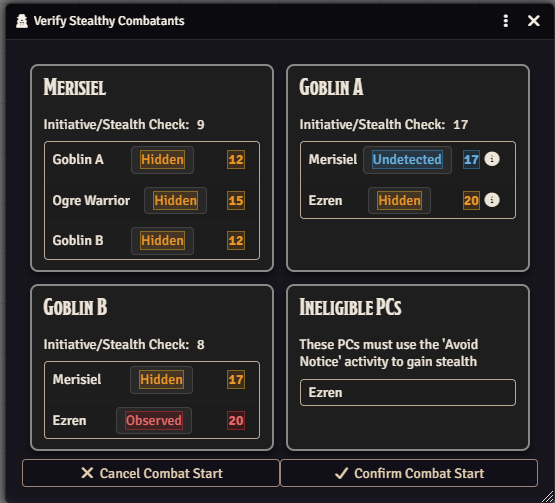
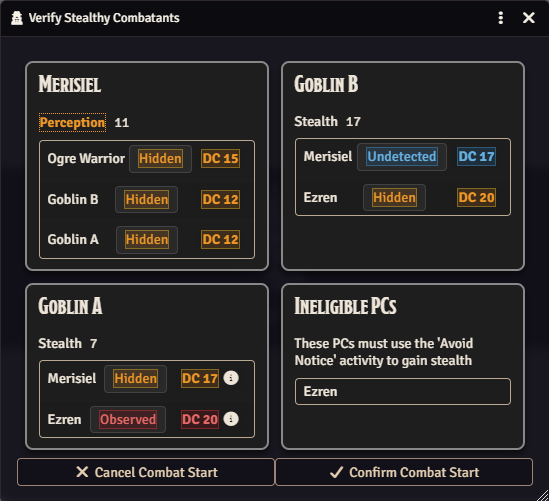
Fix issue #6, small dialog improvements

diff --git a/src/start-combat-dialog.js b/src/start-combat-dialog.js
@@ -56,39 +56,49 @@ export class StartCombatDialog extends HandlebarsApplicationMixin(
     context.cancelLabel = `${MODULE_ID}.startCombat.cancel`;
     context.confirmLabel = `${MODULE_ID}.startCombat.confirm`;
     context.observations = Object.fromEntries(
-      Object.entries(this.dialogData.observations).map(([id, o]) => [
-        id,
-        {
-          name: o.avoider.combatant.name,
-          skillResult: o.avoider.skillResult,
-          observers: Object.fromEntries(
-            Object.entries(o.observers).map(([k, v]) => {
-              const entry = {
-                name: v.name,
-                dos: DOS_KEYS[v.degreeOfSuccess],
-                label: LOCALIZATION_KEYS[v.stealthLabel],
-                dc: v.dc,
-              };
-              if ((v.tooltips || []).length > 0) {
-                entry.tooltips = v.tooltips.map((t) =>
-                  localizeString(
-                    t.format,
-                    Object.keys(t.interpolations || {}).length > 0
-                      ? Object.fromEntries(
-                          Object.entries(t.interpolations).map(([k, v]) => [
-                            k,
-                            game.i18n.localize(v),
-                          ]),
-                        )
-                      : {},
-                  ),
-                );
-              }
-              return [k, entry];
-            }),
-          ),
-        },
-      ]),
+      Object.entries(this.dialogData.observations).map(([id, o]) => {
+        const stat = o.avoider.combatant.flags.pf2e.initiativeStatistic;
+        const skill =
+          stat === "perception"
+            ? o.avoider.combatant.actor.perception
+            : o.avoider.combatant.actor.skills[stat];
+        const label = skill.label;
+        return [
+          id,
+          {
+            name: o.avoider.combatant.name,
+            isStealth: stat === "stealth",
+            label,
+            skillResult: o.avoider.skillResult,
+            observers: Object.fromEntries(
+              Object.entries(o.observers).map(([k, v]) => {
+                const entry = {
+                  name: v.name,
+                  dos: DOS_KEYS[v.degreeOfSuccess],
+                  label: LOCALIZATION_KEYS[v.stealthLabel],
+                  dc: v.dc,
+                };
+                if ((v.tooltips || []).length > 0) {
+                  entry.tooltips = v.tooltips.map((t) =>
+                    localizeString(
+                      t.format,
+                      Object.keys(t.interpolations || {}).length > 0
+                        ? Object.fromEntries(
+                            Object.entries(t.interpolations).map(([k, v]) => [
+                              k,
+                              game.i18n.localize(v),
+                            ]),
+                          )
+                        : {},
+                    ),
+                  );
+                }
+                return [k, entry];
+              }),
+            ),
+          },
+        ];
+      }),
     );
     if (this.dialogData.ineligiblePcs.length > 0) {
       context.observations.ineligible = {

diff --git a/src/menu.js b/src/menu.js
@@ -135,7 +135,7 @@ function summarizeDispositions(tokens) {
 
 export async function invokeMenu(_event) {
   const config = getChoices();
-  if (!config || !config.choices.length) {
+  if (!config?.choices?.length) {
     ui.notifications.info(
       localizeString(`${MODULE_ID}.notifications.noToDos`, {
         controlled: `${config.rawControlled?.tokens?.length ?? 0}`,

diff --git a/src/style.css b/src/style.css
@@ -395,6 +395,16 @@ button.pf2e-stealthy-button:disabled {
   padding-bottom: 4px;
 }
 
+.pf2e-stealthy-card-label {
+  font-weight: 500;
+}
+
+.pf2e-stealthy-card-label.pf2e-stealthy-not-stealth {
+  color: #f39c12;
+  font-weight: bold;
+  border: 1px dotted #f39c12;
+}
+
 .pf2e-stealthy-card-result[data-interactive="false"] {
   cursor: default;
   user-select: text;

diff --git a/src/connected-tokens-menu.js b/src/connected-tokens-menu.js
@@ -122,7 +122,6 @@ export function fillConnectedTokensMenu({ controlled, targeted }) {
       },
     );
   }
-  if (!choices.length) return {};
 
   choices.sort((a, b) => a.group - b.group || a.label.localeCompare(b.label));
   return { title: `${MODULE_ID}.menu.connectedTokens`, choices };

diff --git a/notes.md b/notes.md
@@ -1,11 +1,11 @@
-### PF2e Stealthy v1.2.0
+### PF2e Stealthy v1.2.1
 
-- Opt-in setting for a Start Combat dialog. If enabled, and there are stealthy characters in the combat, a dialog will be presented when Start Combat is pressed that shows the GM those characters and allows them final control of the visibility states they will have vs each observer based on cover or whatever prior to the completion of Start Combat.
-- Opt-out setting to disable listing target visibilities on initiative cards.
-- improved criteria for showing prepare/clear ambush on the context menu.
-- Fix error when controlled/targeted tokens have no viable context choices.
+- Fix error (again) when controlled/targeted tokens have no viable context choices.
+- Start Combat dialog
+    - Show initiative statistic used for stealthy characters, highlighting non-stealth rolls for GM review.
+    - Add 'DC' to the DC numbers listed on the cards to clarify.
 
-![Start Combat Dialog](https://raw.githubusercontent.com/Eligarf/pf2e-stealthy/main/images/start-combat.png)
+[Start Combat Dialog](https://raw.githubusercontent.com/Eligarf/pf2e-stealthy/main/images/start-combat.png)
 
 [module](<https://foundryvtt.com/packages/pf2e-stealthy>) | [Github](<https://github.com/Eligarf/pf2e-stealthy>) | [Thread](<https://discord.com/channels/880968862240239708/1565811961839620346>)
 

diff --git a/CHANGELOG.md b/CHANGELOG.md
@@ -1,5 +1,12 @@
 ## pending
 
+## 1.2.1
+
+- Fix error (again) when controlled/targeted tokens have no viable context choices.
+- Start Combat dialog
+    - Show initiative statistic used for stealthy characters, highlighting non-stealth rolls for GM review.
+    - Add 'DC' to the DC numbers listed on the cards to clarify.
+
 ## 1.2.0
 
 - Opt-in setting for a Start Combat dialog. If enabled, and there are stealthy characters in the combat, a dialog will be presented when Start Combat is pressed that shows the GM those characters and allows them final control of the visibility states they will have vs each observer based on cover or whatever prior to the completion of Start Combat.
